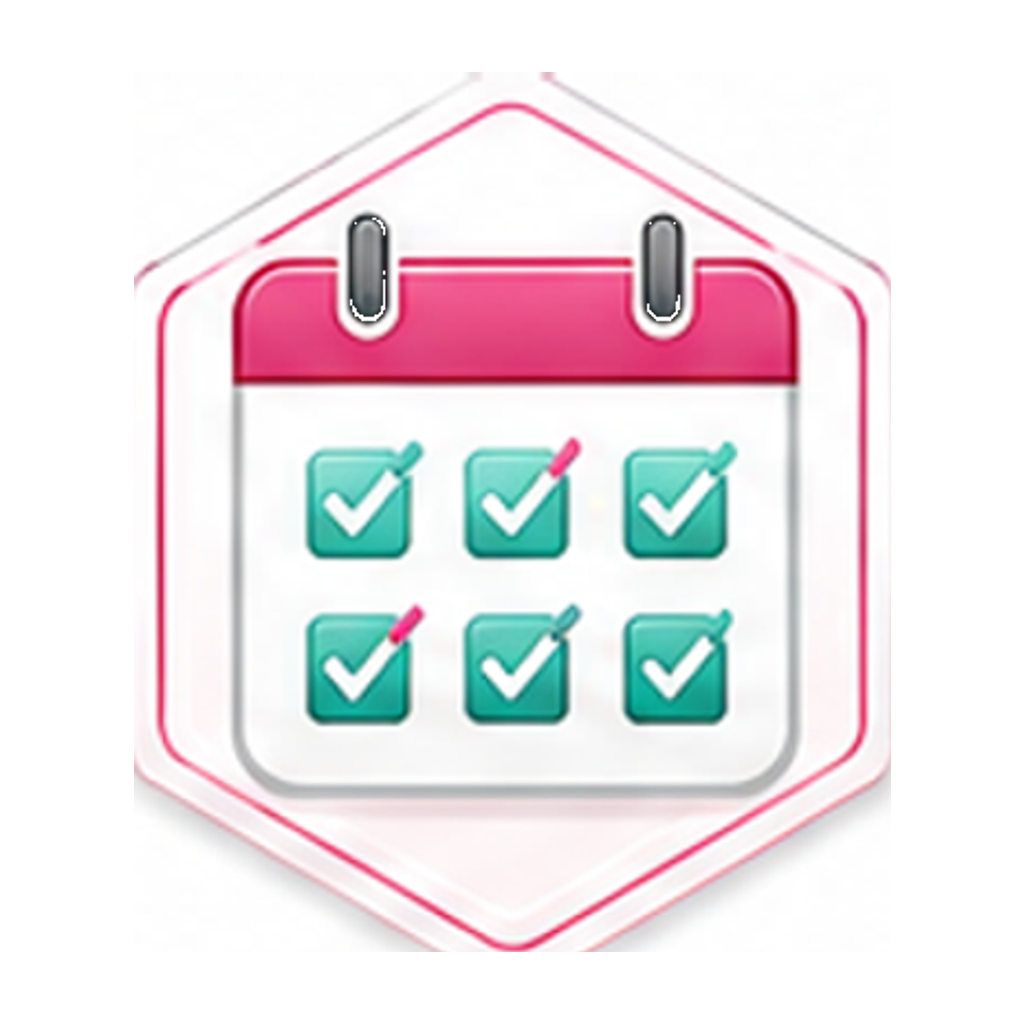
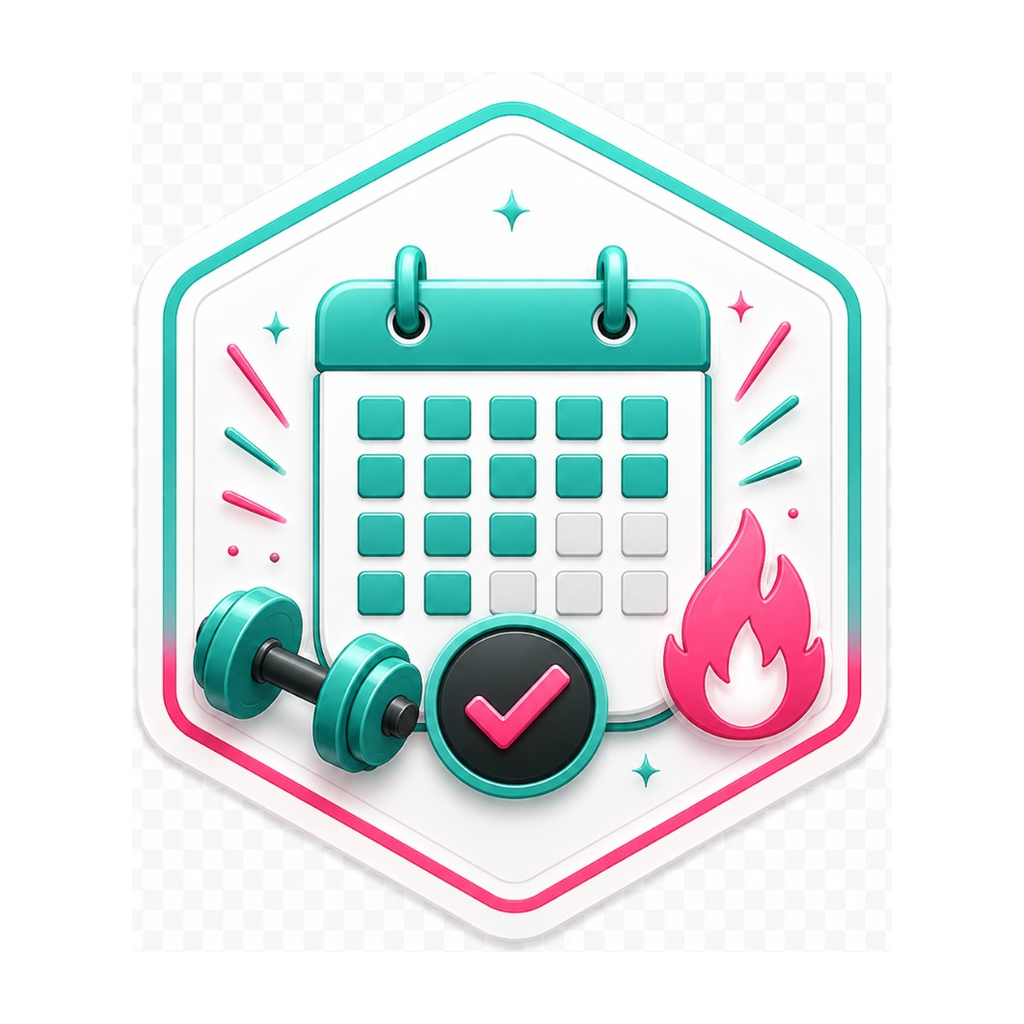
Fiks usynlige badges og oppdater Månedsdriv-grafikk.
Fjern mix-blend-lighten som gjorde normaliserte PNG-er hvite på hvit bakgrunn, og bytt ut Månedsdriv-ikonet.

diff --git a/src/app/badgeImagePresentation.ts b/src/app/badgeImagePresentation.ts
@@ -1,4 +1,4 @@
-/** Felles visning av badge-PNG med «falsk» svart bakgrunn fra eksport. */
+/** Felles visning av badge-PNG (transparent bakgrunn etter normalisering). */
 export const BADGE_IMAGE_BOX_CLASS = "h-[5.4rem] w-[5.4rem]";
 
 export const BADGE_IMAGE_WRAPPER_CLASS =
@@ -6,10 +6,10 @@ export const BADGE_IMAGE_WRAPPER_CLASS =
 
 /** Ingen ekstra padding — motivet er normalisert til samme canvas som tungvekter. */
 export const BADGE_IMAGE_CLASS =
-  "h-full w-full object-contain p-0 drop-shadow-sm mix-blend-lighten";
+  "h-full w-full object-contain p-0 drop-shadow-sm";
 
 export const BADGE_IMAGE_POPUP_WRAPPER_CLASS =
   "mx-auto mt-4 flex h-36 w-36 items-center justify-center overflow-hidden rounded-xl bg-white";
 
 export const BADGE_IMAGE_POPUP_CLASS =
-  "h-full w-full object-contain p-0 drop-shadow-sm mix-blend-lighten";
+  "h-full w-full object-contain p-0 drop-shadow-sm";

diff --git a/src/app/motusShareCard.ts b/src/app/motusShareCard.ts
@@ -31,7 +31,7 @@ function fillWrappedCanvasText(
   if (line) ctx.fillText(line, x, cy);
 }
 
-/** Tegn badge uten synlig svart «bakgrunn» fra PNG-eksport. */
+/** Tegn badge på hvit flate (PNG har transparent bakgrunn). */
 function drawBadgeImageOnCanvas(
   ctx: CanvasRenderingContext2D,
   image: CanvasImageSource,
@@ -43,7 +43,6 @@ function drawBadgeImageOnCanvas(
   ctx.save();
   ctx.fillStyle = "#ffffff";
   ctx.fillRect(x, y, w, h);
-  ctx.globalCompositeOperation = "screen";
   ctx.drawImage(image, x, y, w, h);
   ctx.restore();
 }
